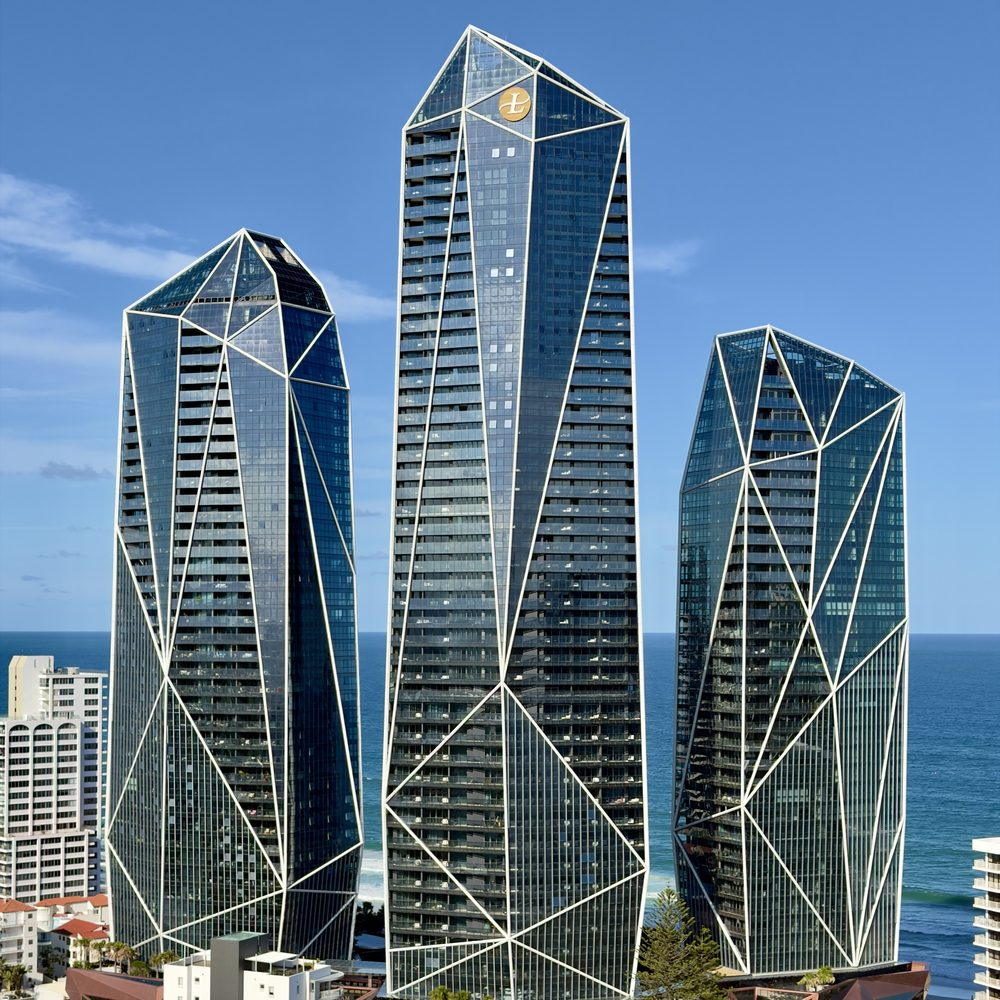
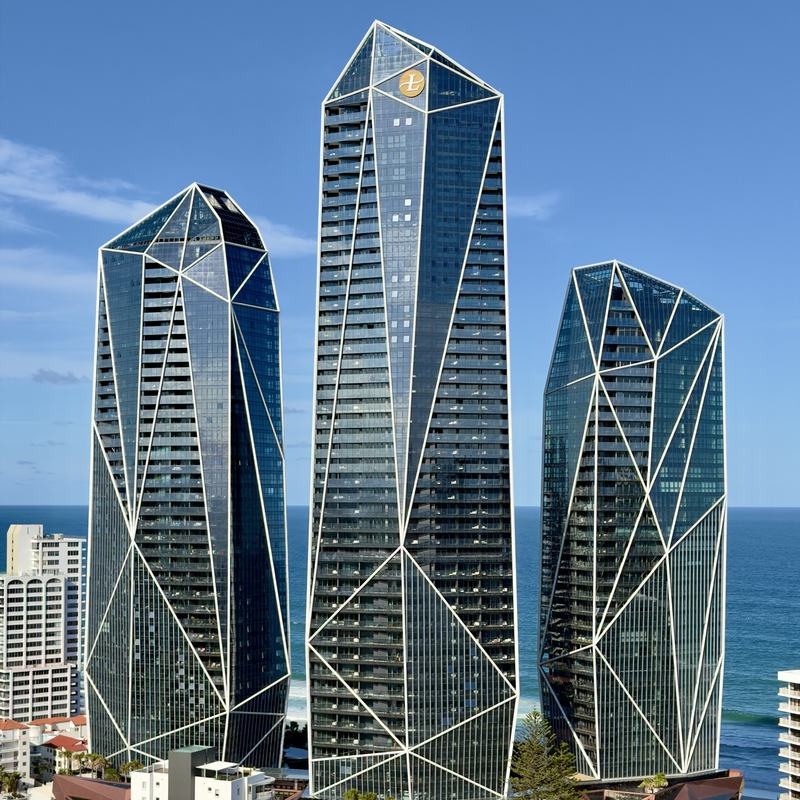
Major Projects: lighter Jewel image (800px)

Changed region(s): [[0.8438, 0.75, 0.9062, 0.8125], [0.5312, 0.0625, 0.5625, 0.0938]]

diff --git a/public/major-projects/index.html b/public/major-projects/index.html
@@ -2,7 +2,7 @@
 
 <link rel="stylesheet" href="../cro.css?v=20261023k" data-cro="">
 </head><body class="subpage"><div class="service-bar">24/7 EMERGENCY ASSISTANCE <span>•</span> Gold Coast · Brisbane · Northern NSW <span><a class="cro-tel" data-cro-tel="" href="tel:+61755888111">(07) 55 888 111</a></span></div><header class="site-header"><a class="brand" href="../index.html"><img src="../assets/spl-logo-white.webp" alt="SPL Security Solutions" width="300" height="140" decoding="async"></a><button class="menu-toggle" aria-expanded="false" aria-controls="main-nav">Menu</button><nav id="main-nav" aria-label="Main navigation"><a href="../index.html">Home</a><div class="nav-group"><a class="nav-top-link" href="../about/index.html">About</a><button type="button" class="nav-expand" aria-expanded="false" aria-controls="nav-sub-about" aria-label="Show About menu"></button><div class="nav-dropdown" id="nav-sub-about" hidden><a href="../about/index.html#OurValues">Our Values</a><a href="../about/index.html#OurStory">Our Story</a><a href="../our-team/index.html">Our Team</a><a href="../major-projects/index.html">Major Projects</a><a href="../blog/index.html">Blog</a><a href="../careers/index.html">Careers</a></div></div><div class="nav-group"><a class="nav-top-link" href="../locksmith-services/index.html">Locksmiths</a><button type="button" class="nav-expand" aria-expanded="false" aria-controls="nav-sub-locksmiths" aria-label="Show Locksmiths menu"></button><div class="nav-dropdown" id="nav-sub-locksmiths" hidden><a href="../locksmith-services/index.html">Residential &amp; Commercial</a><a href="../auto-locksmith/index.html">24/7 Automotive</a><a href="../restricted-keys/index.html">Restricted Key Systems</a><a href="../emergency-locksmith/index.html">24/7 Emergency</a></div></div><div class="nav-group"><a class="nav-top-link" href="../security-systems/index.html">Security Systems</a><button type="button" class="nav-expand" aria-expanded="false" aria-controls="nav-sub-security-systems" aria-label="Show Security Systems menu"></button><div class="nav-dropdown" id="nav-sub-security-systems" hidden><a href="../cctv-system/index.html">Security Cameras &amp; CCTV Systems</a><a href="../access-control-systems/index.html">Access Control</a><a href="../intercom/index.html">Intercom Systems</a><a href="../alarm-system/index.html">Alarm Systems</a><a href="../alarm-monitoring/index.html">Maintenance &amp; Servicing</a><a href="../alarm-monitoring/index.html#AlarmMonitoringandPatrolService">Alarm Monitoring</a></div></div><div class="nav-group"><a class="nav-top-link" href="../retail-security/index.html">Retail &amp; Trade</a><button type="button" class="nav-expand" aria-expanded="false" aria-controls="nav-sub-retail-and-trade" aria-label="Show Retail &amp; Trade menu"></button><div class="nav-dropdown" id="nav-sub-retail-and-trade" hidden><a href="../door-handles/index.html">Levers / Handles</a><a href="../door-closers/index.html">Door Closers &amp; Seals</a><a href="../fire-door-hardware/index.html">Fire Door Hardware</a><a href="../locksmiths/lock-hardware/index.html">Lock Hardware</a><a href="../safe/index.html">Safes</a></div></div><div class="nav-group"><a class="nav-top-link" href="../door-hardware/index.html">Door Hardware</a><button type="button" class="nav-expand" aria-expanded="false" aria-controls="nav-sub-door-hardware" aria-label="Show Door Hardware menu"></button><div class="nav-dropdown" id="nav-sub-door-hardware" hidden><a href="../architectural-door-hardware/index.html">Architectural Door Hardware</a></div></div><div class="nav-group"><a class="nav-top-link" href="../locations/index.html">Locations</a><button type="button" class="nav-expand" aria-expanded="false" aria-controls="nav-sub-locations" aria-label="Show Locations menu"></button><div class="nav-dropdown" id="nav-sub-locations" hidden><a href="../locations/index.html#gold-coast">Gold Coast</a><a href="../locations/index.html#gold-coast">Brisbane</a><a href="../ballina/index.html">Ballina</a></div></div><a href="../contact/index.html">Contact Us</a></nav></header><main id="top"><section class="page-hero"><div class="page-hero-inner"><p class="breadcrumbs"><a href="../index.html">Home</a> / Our Major Projects</p><p class="kicker">SPL SECURITY SOLUTIONS</p><h1>Our Major Projects</h1></div></section><div class="editorial-layout editorial-layout-unified"><article class="editorial-content"><details class="page-toc" data-seo-generated=""><summary>On this page</summary><div><a href="#section-our-projects">Our projects</a><a href="#section-explore-more">Explore more</a></div></details><section class="answer-summary" data-seo-generated="" aria-label="At a glance"><p class="kicker">AT A GLANCE</p><p>Our vast experience in the industry, paired with a commitment to innovative solutions, allows us to undertake major projects with confidence and expertise.</p></section><div class="service-facts"><span>Servicing Gold Coast, Brisbane &amp; Northern NSW</span><span>FREE QUOTES AVAILABLE</span><span>24/7 EMERGENCY ASSISTANCE</span></div>
-<section class="mp-grid" data-cro="" aria-labelledby="section-our-projects"><h2 id="section-our-projects">Our projects</h2><p class="mp-hint">Hover, tab to or tap a project to see the work we did.</p><ul class="mp-tiles"><li class="mp-tile" id="section-q1" tabindex="0" aria-label="Q1: work done"><img loading="lazy" src="../assets/imported/spl-q1-residential-tower-building.jpg" alt="Q1 residential tower, Gold Coast" width="800" height="745" decoding="async"><h3 class="mp-name">Q1</h3><div class="mp-over"><h3>Q1</h3><p>Building.</p></div></li><li class="mp-tile" id="section-circle-on-cavill" tabindex="0" aria-label="Circle On Cavill: work done"><img loading="lazy" src="../assets/imported/spl-circle-cavill-towers.jpg" alt="Circle On Cavill towers, Surfers Paradise" width="480" height="481" decoding="async"><h3 class="mp-name">Circle On Cavill</h3><div class="mp-over"><h3>Circle On Cavill</h3><p>SPL’s biggest project to date.</p><ul><li><strong>SPL:</strong> restricted keying, architectural door hardware, bathroom accessories</li><li><strong>Electronic division (both towers):</strong> CCTV, access control, intercoms, MATV</li></ul></div></li><li class="mp-tile" id="section-the-oracle-on-broadbeach" tabindex="0" aria-label="The Oracle on Broadbeach: work done"><img loading="lazy" src="../assets/imported/spl-oracle-broadbeach-towers.jpg" alt="The Oracle towers, Broadbeach" width="451" height="450" decoding="async"><h3 class="mp-name">The Oracle on Broadbeach</h3><div class="mp-over"><h3>The Oracle on Broadbeach</h3><p>Restricted keying system on both towers, plus the architectural door hardware.</p></div></li><li class="mp-tile" id="section-jewel" tabindex="0" aria-label="Jewel: work done"><picture><source type="image/webp" srcset="../assets/imported/spl-jewel-surfers-paradise.webp?v=1"><img loading="lazy" src="../assets/imported/spl-jewel-surfers-paradise.jpg?v=1" alt="Jewel towers, Surfers Paradise" width="1000" height="1000" decoding="async"></picture><h3 class="mp-name">Jewel</h3><div class="mp-over"><h3>Jewel</h3><p>Electronic security for Jewel, Surfers Paradise.</p><ul><li>CCTV</li><li>Access control</li></ul></div></li></ul><p class="mp-credit">Jewel photo: Chris Olszewski, <a href="https://commons.wikimedia.org/wiki/File:Jewel,_Gold_Coast,_2026,_01.jpg" rel="noopener">Wikimedia Commons</a>, <a href="https://creativecommons.org/licenses/by-sa/4.0/" rel="license noopener">CC BY-SA 4.0</a> (cropped).</p><script>document.querySelectorAll('.mp-tile').forEach(t=>{t.addEventListener('click',()=>{const o=t.classList.toggle('is-open');document.querySelectorAll('.mp-tile.is-open').forEach(x=>{if(x!==t)x.classList.remove('is-open')});});t.addEventListener('keydown',e=>{if(e.key==='Enter'||e.key===' '){e.preventDefault();t.click();}});});</script></section>
+<section class="mp-grid" data-cro="" aria-labelledby="section-our-projects"><h2 id="section-our-projects">Our projects</h2><p class="mp-hint">Hover, tab to or tap a project to see the work we did.</p><ul class="mp-tiles"><li class="mp-tile" id="section-q1" tabindex="0" aria-label="Q1: work done"><img loading="lazy" src="../assets/imported/spl-q1-residential-tower-building.jpg" alt="Q1 residential tower, Gold Coast" width="800" height="745" decoding="async"><h3 class="mp-name">Q1</h3><div class="mp-over"><h3>Q1</h3><p>Building.</p></div></li><li class="mp-tile" id="section-circle-on-cavill" tabindex="0" aria-label="Circle On Cavill: work done"><img loading="lazy" src="../assets/imported/spl-circle-cavill-towers.jpg" alt="Circle On Cavill towers, Surfers Paradise" width="480" height="481" decoding="async"><h3 class="mp-name">Circle On Cavill</h3><div class="mp-over"><h3>Circle On Cavill</h3><p>SPL’s biggest project to date.</p><ul><li><strong>SPL:</strong> restricted keying, architectural door hardware, bathroom accessories</li><li><strong>Electronic division (both towers):</strong> CCTV, access control, intercoms, MATV</li></ul></div></li><li class="mp-tile" id="section-the-oracle-on-broadbeach" tabindex="0" aria-label="The Oracle on Broadbeach: work done"><img loading="lazy" src="../assets/imported/spl-oracle-broadbeach-towers.jpg" alt="The Oracle towers, Broadbeach" width="451" height="450" decoding="async"><h3 class="mp-name">The Oracle on Broadbeach</h3><div class="mp-over"><h3>The Oracle on Broadbeach</h3><p>Restricted keying system on both towers, plus the architectural door hardware.</p></div></li><li class="mp-tile" id="section-jewel" tabindex="0" aria-label="Jewel: work done"><picture><source type="image/webp" srcset="../assets/imported/spl-jewel-surfers-paradise.webp?v=2"><img loading="lazy" src="../assets/imported/spl-jewel-surfers-paradise.jpg?v=2" alt="Jewel towers, Surfers Paradise" width="800" height="800" decoding="async"></picture><h3 class="mp-name">Jewel</h3><div class="mp-over"><h3>Jewel</h3><p>Electronic security for Jewel, Surfers Paradise.</p><ul><li>CCTV</li><li>Access control</li></ul></div></li></ul><p class="mp-credit">Jewel photo: Chris Olszewski, <a href="https://commons.wikimedia.org/wiki/File:Jewel,_Gold_Coast,_2026,_01.jpg" rel="noopener">Wikimedia Commons</a>, <a href="https://creativecommons.org/licenses/by-sa/4.0/" rel="license noopener">CC BY-SA 4.0</a> (cropped).</p><script>document.querySelectorAll('.mp-tile').forEach(t=>{t.addEventListener('click',()=>{const o=t.classList.toggle('is-open');document.querySelectorAll('.mp-tile.is-open').forEach(x=>{if(x!==t)x.classList.remove('is-open')});});t.addEventListener('keydown',e=>{if(e.key==='Enter'||e.key===' '){e.preventDefault();t.click();}});});</script></section>
 <section class="related-links"><h2 id="section-explore-more">Explore more</h2><a href="../locksmith-services/index.html">Locksmithing Services <span aria-hidden="true">↗</span></a><a href="../access-control-systems/index.html">Access Control Systems <span aria-hidden="true">↗</span></a><a href="../cctv-system/index.html">Security Cameras &amp; CCTV <span aria-hidden="true">↗</span></a><a href="../safe/index.html">Safes <span aria-hidden="true">↗</span></a><a href="../alarm-system/index.html">Alarm Systems <span aria-hidden="true">↗</span></a></section></article></div><section class="contact-options" id="contact-options" aria-labelledby="contact-options-title">
   <div class="contact-options-copy"><p class="contact-eyebrow">LET’S GET YOUR SECURITY SORTED</p><h2 id="contact-options-title">Talk to your local <br>security experts.</h2><p>Gold Coast, Brisbane &amp; Northern NSW.<br>24/7 emergency assistance available by phone.</p><p class="cro-warranty" data-cro=""><svg aria-hidden="true" focusable="false" width="22" height="22" viewBox="0 0 24 24"><path fill="#f7c600" d="M12 2 4 5v6c0 5 3.4 9.7 8 11 4.6-1.3 8-6 8-11V5l-8-3z"/><path fill="none" stroke="#111" stroke-width="2.2" stroke-linecap="round" stroke-linejoin="round" d="m8.5 12.2 2.4 2.4 4.8-5"/></svg><span>12-month warranty on all parts &amp; labour</span></p></div>
   <div class="contact-options-links">

diff --git a/assets/source/README.md b/assets/source/README.md
@@ -8,4 +8,4 @@
 Supplied by SPL Security (Oct 2026): showroom wall of door handles, 6000x4000. Used on door-handles/ under "Easy to Use & Secure Door Handles" (resized to 1000x667, same 3:2 frame, no crop).
 
 ## jewel-gold-coast-2026-olszewski.jpg
-"Jewel, Gold Coast, 2026, 01.jpg" by Chris Olszewski, Wikimedia Commons: https://commons.wikimedia.org/wiki/File:Jewel,_Gold_Coast,_2026,_01.jpg. Licence: CC BY-SA 4.0 (https://creativecommons.org/licenses/by-sa/4.0/). Used on major-projects/ (Jewel tile) as public/assets/imported/spl-jewel-surfers-paradise.{webp,jpg}: square crop (full width, from y=150) scaled to 1000x1000, no other edits. The cropped version is shared under the same licence; credit shown under the projects grid.
+"Jewel, Gold Coast, 2026, 01.jpg" by Chris Olszewski, Wikimedia Commons: https://commons.wikimedia.org/wiki/File:Jewel,_Gold_Coast,_2026,_01.jpg. Licence: CC BY-SA 4.0 (https://creativecommons.org/licenses/by-sa/4.0/). Used on major-projects/ (Jewel tile) as public/assets/imported/spl-jewel-surfers-paradise.{webp,jpg}: square crop (full width, from y=150) scaled to 800x800, no other edits. The cropped version is shared under the same licence; credit shown under the projects grid.
